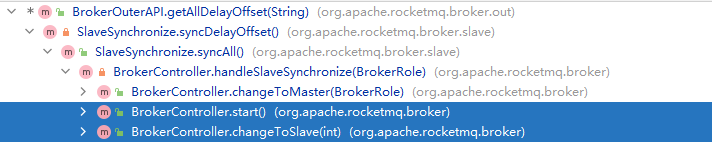
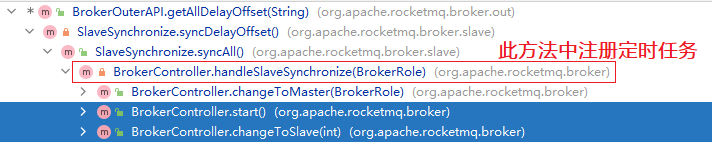
TopicConfigManager.md

Changed region(s): [[0.0927, 0.2667, 0.9888, 0.4267], [0.0927, 0.5333, 0.8652, 0.56]]

diff --git a/RocketMQ/源码阅读/网络组件Remoting/请求类型及处理/GET_ALL_TOPIC_CONFIG.md b/RocketMQ/源码阅读/网络组件Remoting/请求类型及处理/GET_ALL_TOPIC_CONFIG.md
@@ -1,10 +1,24 @@
 # 简述
 
-slave broker从master broker拉取topic配置信息，保存到slave broker中，并持久化。
+slave broker使用定时任务，每隔10秒发送请求从master broker拉取topic配置信息，保存到slave broker中，并持久化。
 
 client：slave broker
 
 server：master broker
+
+
+
+**定时任务**
+
+![image-20211209185724321](images/image-20211209185724321.png)
+
+
+
+
+
+**此定时任务在以下场景会注册：**
+
+[client何时发送请求](#client%E4%BD%95%E6%97%B6%E5%8F%91%E9%80%81%E8%AF%B7%E6%B1%82)
 
 
 
@@ -54,6 +68,35 @@ slave broker使用同步阻塞的方式，发送请求，当slave broker收到ma
 
 
 
+
+
+# client何时发送请求
+
+> 上面我们知道了这个请求是slave发送给master的，也知道了slave收到响应之后处理逻辑。
+>
+> 但是slave在什么时候/什么场景才会给master发送这个请求呢？
+
+是在定时任务中，每隔10秒slave和master之间同步一次数据：
+
+![image-20211209185724321](images/image-20211209185724321.png)
+
+**这个定时任务是在broker是slave的情况下，才会注册、才会执行。**
+
+**下面两种情况，会注册定时任务：**
+
+- broker启动时，并且broker是 slave
+- 当broker的角色由master变成slave时
+
+![image-20211202185024295](images/image-20211202185024295.png)
+
+
+
+
+
+
+
+
+
 # server
 
 server端是master broker，使用请求处理器来处理：
@@ -71,5 +114,4 @@ server端是master broker，使用请求处理器来处理：
 # TopicConfigManager 
 
 详见：[ConfigManager——TopicConfigManager.md](../../配置管理ConfigManager/TopicConfigManager.md)
-
 

diff --git a/RocketMQ/源码阅读/网络组件Remoting/请求类型及处理/GET_ALL_DELAY_OFFSET.md b/RocketMQ/源码阅读/网络组件Remoting/请求类型及处理/GET_ALL_DELAY_OFFSET.md
@@ -16,12 +16,15 @@ server：master 的broker
 
 
 
-**此请求在以下场景会发送：**
+**定时任务**
 
-- broker启动时，并且broker是 slave
-- 当broker的角色由master变成slave时
+![image-20211209191233438](images/image-20211209191233438.png)
 
-![image-20211202185024295](images/image-20211202185024295.png)
+**此定时任务在以下场景会注册：**
+
+[client何时发送请求](#client%E4%BD%95%E6%97%B6%E5%8F%91%E9%80%81%E8%AF%B7%E6%B1%82)
+
+
 
 
 
@@ -67,6 +70,41 @@ org.apache.rocketmq.broker.out.BrokerOuterAPI#getAllDelayOffset
 
 
 也就是在 ：![image-20211203155812942](images/image-20211203155812942.png)
+
+
+
+
+
+
+
+# client何时发送请求
+
+> 上面我们知道了这个请求是slave发送给master的，也知道了slave收到响应之后处理逻辑。
+>
+> 但是slave在什么时候/什么场景才会给master发送这个请求呢？
+
+是在定时任务中，每隔10秒slave和master之间同步一次数据：
+
+![image-20211209191233438](images/image-20211209191233438.png)
+
+**这个定时任务是在broker是slave的情况下，才会注册、才会执行。**
+
+**下面两种情况，会注册定时任务：**
+
+- broker启动时，并且broker是 slave
+- 当broker的角色由master变成slave时
+
+![image-20211202185024295](images/image-20211202185024295.png)
+
+
+
+
+
+
+
+
+
+
 
 
 

diff --git a/RocketMQ/源码阅读/配置管理ConfigManager/TopicConfigManager.md b/RocketMQ/源码阅读/配置管理ConfigManager/TopicConfigManager.md
@@ -1,5 +1,31 @@
 # 简述
 
+broker用`TopicConfigManager`来管理当前broker机器上的topic。
+
+
+
+**持久化**
+
+- broker上的topic配置信息，需要持久化到磁盘。
+- 每次topic变化的时候，都需要持久化并记录数据版本号。
+
+
+
+**注册到NameServer**
+
+- 当broker上的topic配置变化的时候后，给所有的NameServer发送消息
+- 请求包含broker自身信息及topic配置信息
+- [详见RouteInfoManager路由表管理器.md](../NameServer/RouteInfoManager路由表管理器.md) 
+
+
+
+**master和slave之间topic配置同步**
+
+- slave会给master发送请求，拉取topic配置，然后保存到slave机器上
+
+- slave也会注册到NameServer。
+- [详见 GET_ALL_TOPIC_CONFIG.md](../网络组件Remoting/请求类型及处理/GET_ALL_TOPIC_CONFIG.md)
+
 
 
 
@@ -319,9 +345,25 @@ public boolean isOrderTopic(final String topic) {
 
 ![image-20211207204926748](images/image-20211207204926748.png)
 
+在RocketMQ的控制台上，也能看到重试topic只有1个queue：
+
+![image-20211207211220158](images/image-20211207211220158.png)
 
 
 
+
+
+
+
+## 持久化相关方法
+
+
+
+
+
+
+
+## 持久化方法的使用
 
 
 
